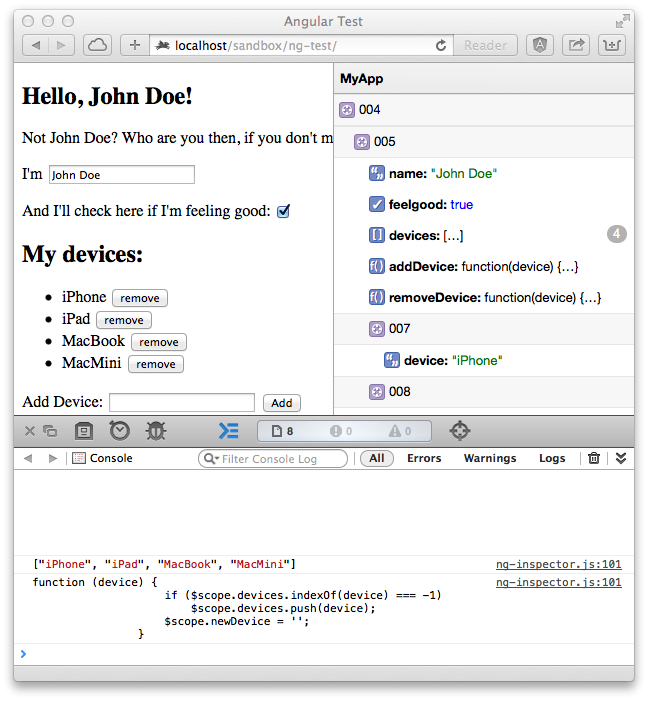
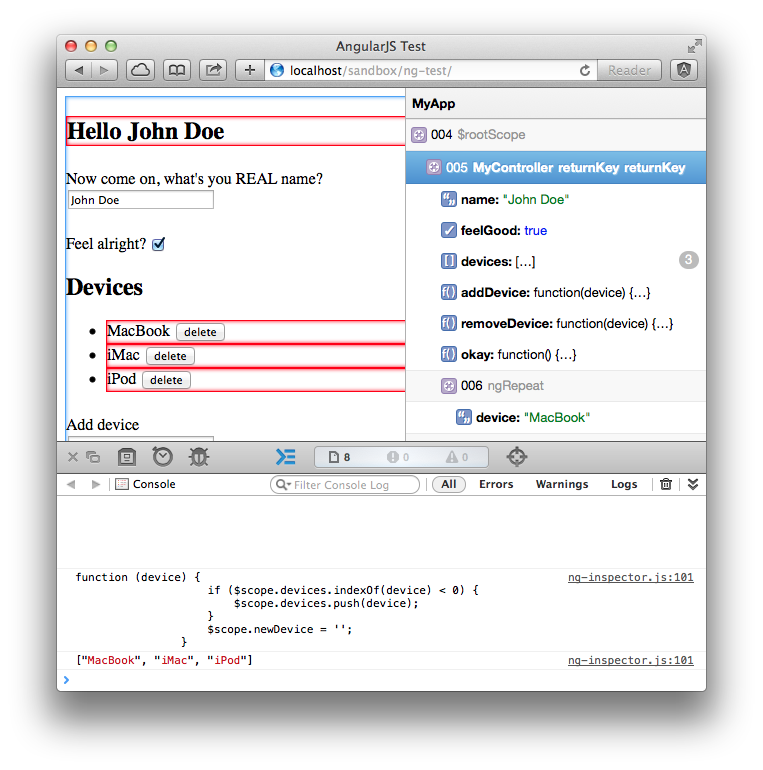
Update readme and screenshot

diff --git a/README.md b/README.md
@@ -1,6 +1,6 @@
 # ng-inspector
 
-__ng-inspector__ is a Safari extension that displays an inspector panel to display the AngularJS scope hierarchy in the current page in real time.
+__ng-inspector__ is a Safari extension that displays an inspector panel showing the AngularJS scope hierarchy in the current page in real time, as well as which controllers or directives are associated with which scope.
 
 Hovering over a scope in the inspector will highlight with a blue border the DOM element that scope is attached to, as well as any bindings with a red border. Clicking on a model will console.log that model's contents.
 
